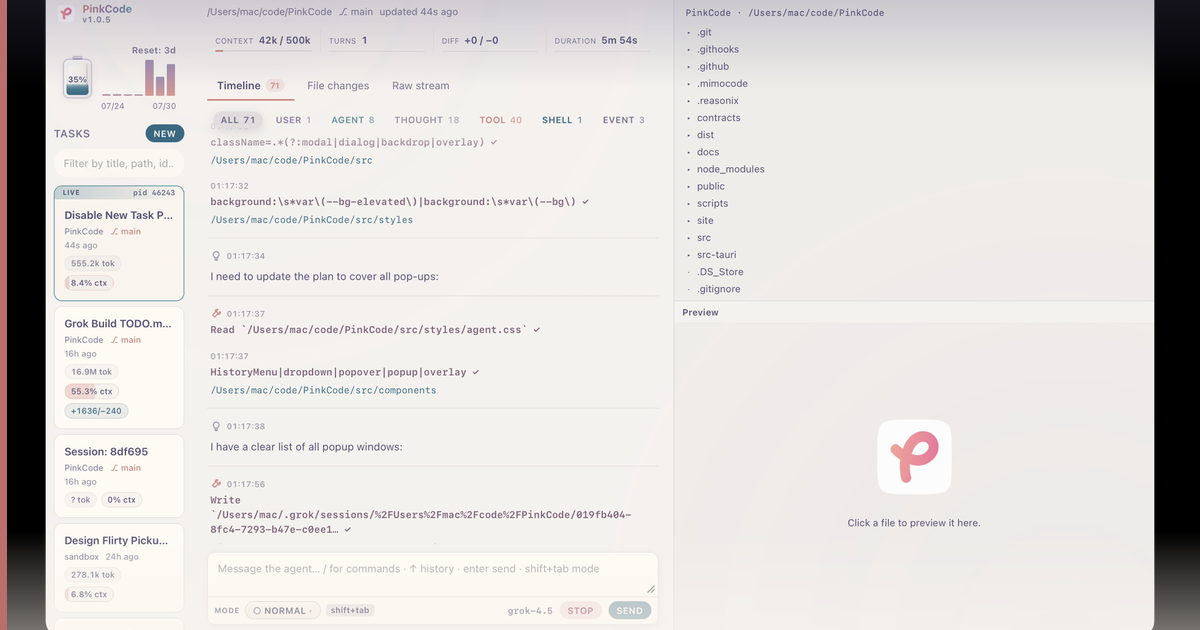
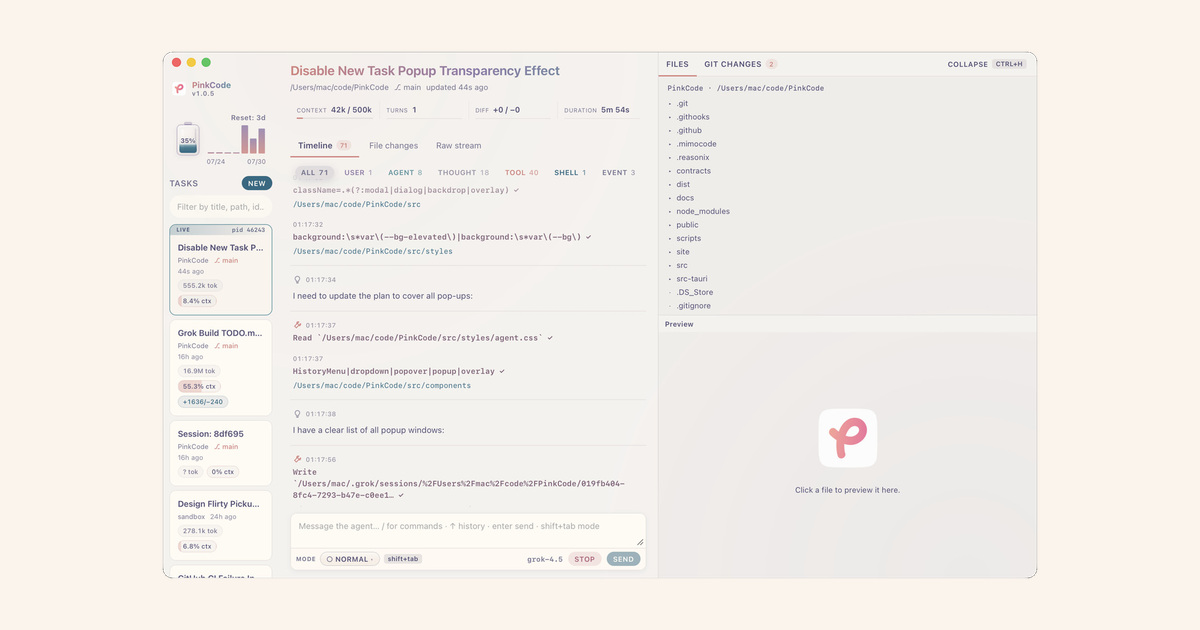
Fix screenshot transparency and drop duplicate window chrome
Key the exterior black matte to alpha, ship an RGBA PNG, and show the
shot bare on the landing page with a soft drop-shadow only.

diff --git a/site/styles.css b/site/styles.css
@@ -404,95 +404,20 @@ h1 {
   border-color: var(--iris);
 }
 
-/* ── Product frame ────────────────────────────────────────────── */
+/* ── Product shot (window chrome is in the PNG) ───────────────── */
 
 .product-showcase {
   position: relative;
-  margin-bottom: 0;
+  margin: 0 auto;
+  max-width: 100%;
 }
 
-.product-frame {
-  position: relative;
-  overflow: hidden;
-  border: 1px solid rgba(206, 202, 205, 0.85);
-  border-radius: calc(var(--radius) + 4px);
-  background: var(--surface-solid);
-  box-shadow: var(--shadow-frame);
-}
-
-.product-frame::before {
-  content: "";
-  position: absolute;
-  z-index: 1;
-  top: 0;
-  right: 10%;
-  left: 10%;
-  height: 1px;
-  background: linear-gradient(
-    90deg,
-    transparent,
-    rgba(215, 130, 126, 0.55),
-    rgba(144, 122, 169, 0.45),
-    transparent
-  );
-}
-
-.frame-bar {
-  display: grid;
-  grid-template-columns: 1fr auto 1fr;
-  align-items: center;
-  height: 40px;
-  padding: 0 14px;
-  border-bottom: 1px solid var(--line);
-  background: linear-gradient(180deg, #fffaf3, #faf4ed);
-  color: var(--rp-muted);
-  font-family: var(--mono);
-  font-size: 10px;
-  letter-spacing: 0.02em;
-}
-
-.traffic-lights {
-  display: flex;
-  gap: 6px;
-}
-
-.traffic-lights span {
-  width: 9px;
-  height: 9px;
-  border-radius: 50%;
-  background: #dfdad9;
-}
-
-.traffic-lights span:nth-child(1) {
-  background: #eb6f92;
-}
-.traffic-lights span:nth-child(2) {
-  background: #f6c177;
-}
-.traffic-lights span:nth-child(3) {
-  background: #9ccfd8;
-}
-
-.frame-state {
-  justify-self: end;
-  display: inline-flex;
-  align-items: center;
-  gap: 6px;
-  color: var(--foam);
-  font-weight: 500;
-}
-
-.frame-state span {
-  width: 6px;
-  height: 6px;
-  border-radius: 50%;
-  background: var(--foam);
-  box-shadow: 0 0 8px rgba(86, 148, 159, 0.6);
-}
-
-.product-frame > img {
+.product-shot {
   width: 100%;
   height: auto;
+  /* Soft lift only — no second fake titlebar / traffic lights */
+  filter: drop-shadow(0 28px 50px rgba(87, 82, 121, 0.18))
+    drop-shadow(0 8px 18px rgba(180, 99, 122, 0.1));
 }
 
 /* ── Signal strip ─────────────────────────────────────────────── */
@@ -1112,23 +1037,9 @@ footer > div:last-child {
     width: 100%;
   }
 
-  .frame-title,
-  .frame-state {
-    display: none;
-  }
-
-  .frame-bar {
-    grid-template-columns: 1fr;
-  }
-
-  .product-frame {
-    border-radius: 14px;
-  }
-
-  .product-frame > img {
-    width: 168%;
-    max-width: none;
-    transform: translateX(-22%);
+  .product-shot {
+    /* Keep full window visible; slight scale not needed with real chrome */
+    width: 100%;
   }
 
   .signal-strip {

diff --git a/site/index.html b/site/index.html
@@ -89,22 +89,14 @@
       </section>
 
       <section class="product-showcase" aria-label="PinkCode product screenshot">
-        <div class="product-frame">
-          <div class="frame-bar">
-            <div class="traffic-lights" aria-hidden="true">
-              <span></span><span></span><span></span>
-            </div>
-            <div class="frame-title">PinkCode · mission control</div>
-            <div class="frame-state"><span></span> live</div>
-          </div>
-          <img
-            src="./assets/screenshot.jpg"
-            alt="PinkCode showing parallel tasks, filtered live timeline, usage meter, and workspace files"
-            width="1600"
-            height="1013"
-            loading="eager"
-          />
-        </div>
+        <img
+          class="product-shot"
+          src="./assets/screenshot.png"
+          alt="PinkCode showing parallel tasks, filtered live timeline, usage meter, and workspace files"
+          width="1400"
+          height="847"
+          loading="eager"
+        />
       </section>
 
       <section class="signal-strip" aria-label="Product highlights">
@@ -211,7 +203,7 @@
             <div class="file-stack" aria-hidden="true">
               <span>src/styles/agent.css</span><span class="delta">M</span>
               <span>src/styles/overlays.css</span><span class="delta">M</span>
-              <span>docs/screenshot.jpg</span><span class="delta plus">A</span>
+              <span>docs/screenshot.png</span><span class="delta plus">A</span>
             </div>
           </article>
 

diff --git a/README.md b/README.md
@@ -28,7 +28,7 @@ Run multiple [Grok Build](https://x.ai/cli) tasks side by side, follow every tas
 ## Screenshot
 
 <p align="center">
-  <img src="docs/screenshot.jpg" alt="PinkCode — parallel tasks, live Timeline, usage, workspace" width="100%" />
+  <img src="docs/screenshot.png" alt="PinkCode — parallel tasks, live Timeline, usage, workspace" width="100%" />
 </p>
 
 ## Features
